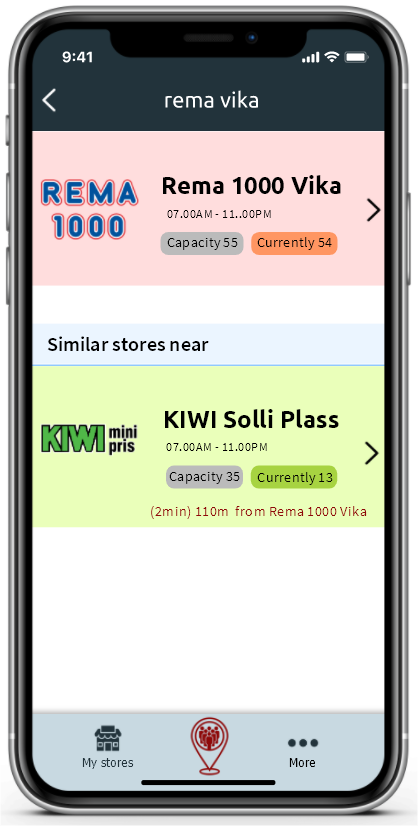
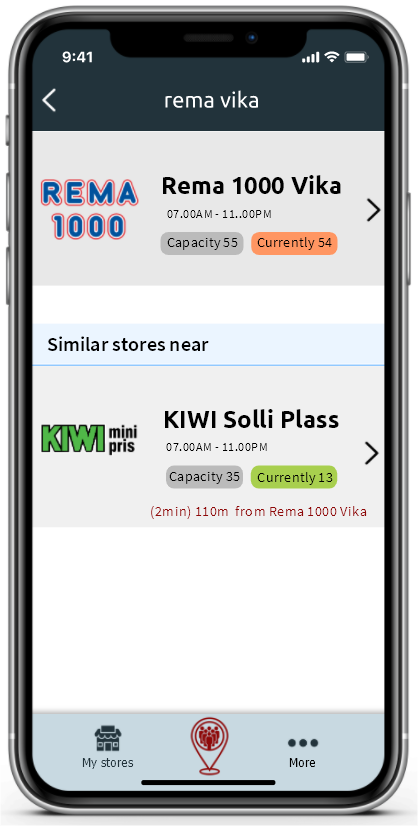
Prototype img

Changed region(s): [[0.0622, 0.4237, 0.933, 0.6356]]

diff --git a/prototype.html b/prototype.html
@@ -73,7 +73,7 @@
             <img src="images/prototype/5More.png">
         </div>
     </section>
-    <section class="prototype wrapper_dark">
+    <section class="prototype wrapper_dark darkDiv">
         <div class="app_img wrapper_left">
             <img src="images/prototype/Green.png">
         </div>
